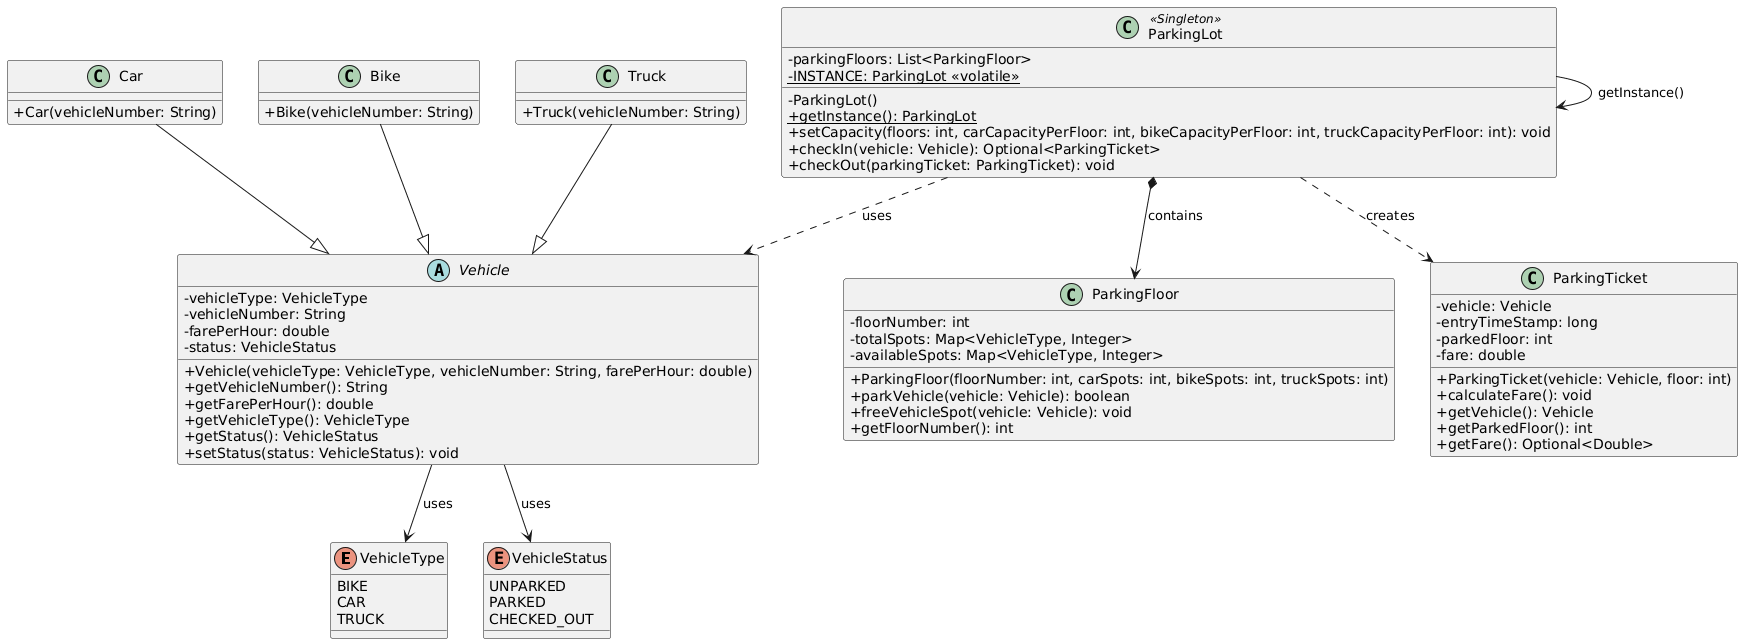
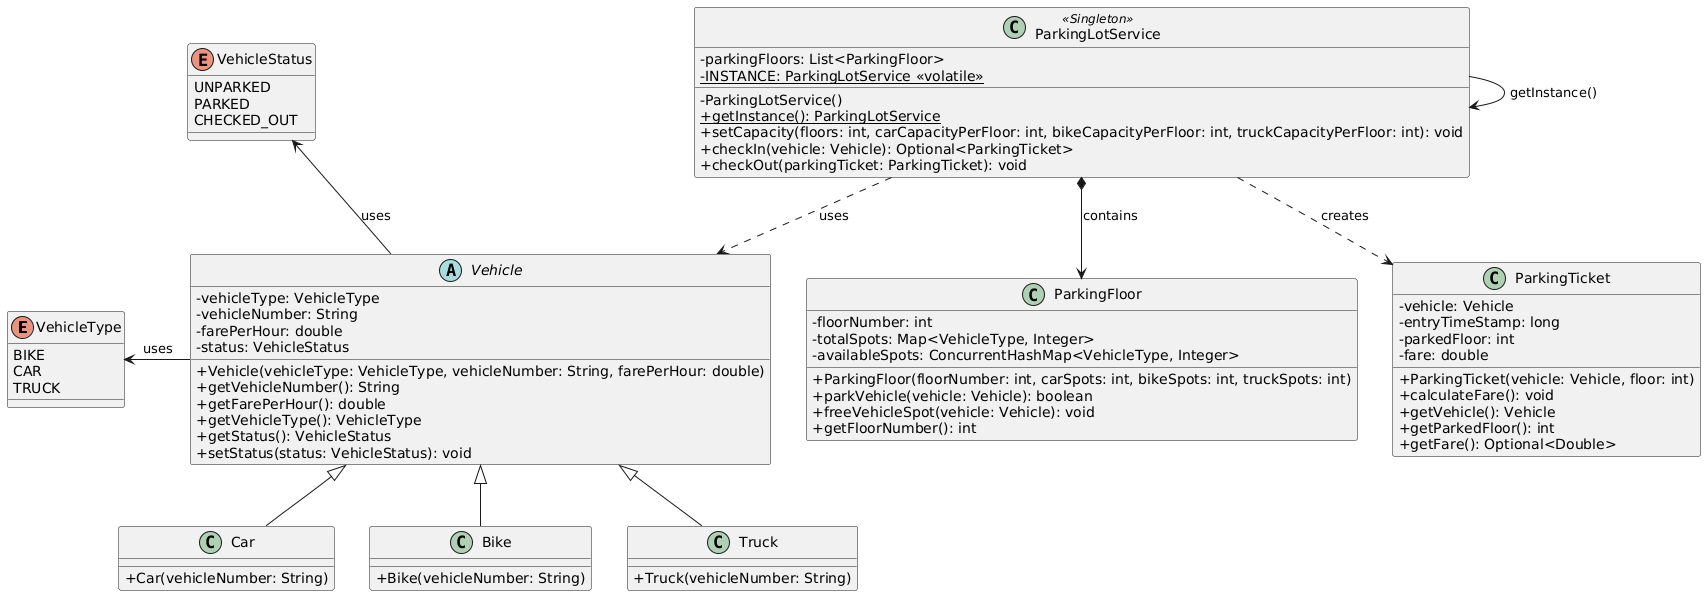
updated package structures, refactor class digrams, readme

diff --git a/problems/parking-lot/ParkingLotDemo.java b/problems/parking-lot/ParkingLotDemo.java
@@ -1,5 +1,5 @@
-import parking.ParkingLot;
-import ticket.ParkingTicket;
+import service.ParkingLotService;
+import entities.ParkingTicket;
 import vehicle.Car;
 import vehicle.Vehicle;
 
@@ -7,33 +7,32 @@ import java.util.Optional;
 
 public class ParkingLotDemo {
 
-    public static void main() throws InterruptedException {
-        ParkingLot parkingLot = ParkingLot.getInstance();
-        parkingLot.setCapacity(1, 2, 5, 1);
+    public static void main(String[] args) throws InterruptedException {
+        ParkingLotService parkingLotService = ParkingLotService.getInstance();
+        parkingLotService.setCapacity(1, 2, 5, 1);
 
         Vehicle car1 = new Car("TN 88 AB 1234");
-        Optional<ParkingTicket> car1Ticket = parkingLot.checkIn(car1);
+        Optional<ParkingTicket> car1Ticket = parkingLotService.checkIn(car1);
         car1Ticket.ifPresent(ticket -> System.out.println("Vehicle " + ticket.getVehicle().getVehicleNumber() + " parked in floor " + ticket.getParkedFloor()));
 
         Vehicle car2 = new Car("TN 19 AB 7887");
-        Optional<ParkingTicket> car2Ticket = parkingLot.checkIn(car2);
+        Optional<ParkingTicket> car2Ticket = parkingLotService.checkIn(car2);
         car2Ticket.ifPresent(ticket -> System.out.println("Vehicle " + ticket.getVehicle().getVehicleNumber() + " parked in floor " + ticket.getParkedFloor()));
 
-
         Vehicle car3 = new Car("TN 01 A 8055");
-        Optional<ParkingTicket> car3Ticket = parkingLot.checkIn(car3);
+        Optional<ParkingTicket> car3Ticket = parkingLotService.checkIn(car3);
         car3Ticket.ifPresent(ticket -> System.out.println("Vehicle " + ticket.getVehicle().getVehicleNumber() + " parked in floor " + ticket.getParkedFloor()));
 
         //for testing
         Thread.sleep(5000);
 
         if(car1Ticket.isPresent()) {
-            parkingLot.checkOut(car1Ticket.get());
+            parkingLotService.checkOut(car1Ticket.get());
             Optional<Double> fare = car1Ticket.get().getFare();
             fare.ifPresent(amount -> System.out.println("Fare for vehicle " + car1Ticket.get().getVehicle().getVehicleNumber() + " : " + amount));
         }
 
-        car3Ticket = parkingLot.checkIn(car3);
+        car3Ticket = parkingLotService.checkIn(car3);
         car3Ticket.ifPresent(ticket -> System.out.println("Vehicle " + ticket.getVehicle().getVehicleNumber() + " parked in floor " + ticket.getParkedFloor()));
 
     }

diff --git a/problems/lrucache/LRUCacheDemo.java b/problems/lrucache/LRUCacheDemo.java
@@ -1,20 +1,20 @@
-import cache.LRUCache;
+import service.LRUCacheService;
 
 public class LRUCacheDemo {
 
-    static void main() {
+    public static void main(String[] args) {
 
-        LRUCache<Integer, String> lruCache = new LRUCache<>(3);
+        LRUCacheService<Integer, String> lruCacheService = new LRUCacheService<>(3);
 
-        lruCache.put(1, "Alice");
-        lruCache.put(2, "Bob");
-        lruCache.put(3, "David");
+        lruCacheService.put(1, "Alice");
+        lruCacheService.put(2, "Bob");
+        lruCacheService.put(3, "David");
 
-        System.out.println(lruCache.get(1));
+        System.out.println(lruCacheService.get(1));
 
-        lruCache.put(4, "John");
+        lruCacheService.put(4, "John");
 
-        System.out.println(lruCache.get(2));
+        System.out.println(lruCacheService.get(2));
     }
 
 }

diff --git a/problems/pub-sub/PubSubDemo.java b/problems/pub-sub/PubSubDemo.java
@@ -1,11 +1,11 @@
 import service.PubSubService;
-import sub.SportsSubscriber;
-import sub.Subscriber;
-import sub.WeatherSubscriber;
+import subscriber.SportsSubscriber;
+import subscriber.Subscriber;
+import subscriber.WeatherSubscriber;
 
 public class PubSubDemo {
 
-    public static void main() throws InterruptedException {
+    public static void main(String[] args) throws InterruptedException {
 
         PubSubService service = PubSubService.getInstance();
 

diff --git a/problems/pub-sub/service/PubSubService.java b/problems/pub-sub/service/PubSubService.java
@@ -1,8 +1,8 @@
 package service;
 
-import message.Message;
-import sub.Subscriber;
-import topic.Topic;
+import entities.Message;
+import subscriber.Subscriber;
+import entities.Topic;
 import java.util.Map;
 import java.util.concurrent.*;
 

diff --git a/problems/parking-lot/README.md b/problems/parking-lot/README.md
@@ -25,17 +25,17 @@ This is a classic low-level design problem that tests the ability to model a rea
 ## UML Diagram
 
 ```
-                        ┌──────────────────────────────────┐
-                        │        ParkingLot <<Singleton>>  │
-                        ├──────────────────────────────────┤
-                        │ - parkingFloors: List<ParkingFloor>│
-                        │ - INSTANCE: ParkingLot           │
-                        ├──────────────────────────────────┤
-                        │ + getInstance(): ParkingLot      │
-                        │ + setCapacity(...): void         │
+                        ┌──────────────────────────────────────┐
+                        │     ParkingLotService <<Singleton>>  │
+                        ├──────────────────────────────────────┤
+                        │ - parkingFloors: List<ParkingFloor>  │
+                        │ - INSTANCE: ParkingLotService        │
+                        ├──────────────────────────────────────┤
+                        │ + getInstance(): ParkingLotService   │
+                        │ + setCapacity(...): void             │
                         │ + checkIn(vehicle): Optional<ParkingTicket> │
-                        │ + checkOut(ticket): void         │
-                        └────────────┬─────────────────────┘
+                        │ + checkOut(ticket): void             │
+                        └────────────┬─────────────────────────┘
                                      │ contains 1..*
                                      ▼
                         ┌──────────────────────────────┐
@@ -87,7 +87,7 @@ This is a classic low-level design problem that tests the ability to model a rea
 | `VehicleStatus` | Enum tracking vehicle lifecycle: `UNPARKED → PARKED → CHECKED_OUT`. |
 | `ParkingFloor` | Manages available and total slot counts per vehicle type using a `Map<VehicleType, Integer>`. Handles park and free operations. |
 | `ParkingTicket` | Receipt issued on check-in. Records entry time and floor. Calculates fare on checkout. Exposes fare only after checkout via `Optional<Double>`. |
-| `ParkingLot` | Singleton entry point. Iterates floors to find the first available slot, owns the vehicle status lifecycle, and synchronizes concurrent access. |
+| `ParkingLotService` | Singleton entry point. Iterates floors to find the first available slot, owns the vehicle status lifecycle, and synchronizes concurrent access. |
 
 ---
 
@@ -102,7 +102,7 @@ Using `Map<VehicleType, Integer>` keyed by the enum reduces both `parkVehicle` a
 Earlier versions called `vehicle.getType()` and compared strings like `"Car"` with `equalsIgnoreCase`. This caused a real bug — `Truck.TYPE` was accidentally set to `"Bike"`, silently routing trucks to bike slots. An enum makes this class of bug impossible at compile time.
 
 ### 3. Singleton with Separated Configuration
-`ParkingLot` is a Singleton because only one physical lot exists. Passing configuration parameters directly into `getInstance(...)` is an anti-pattern — after the first call, subsequent calls with different parameters are silently ignored.
+`ParkingLotService` is a Singleton because only one physical lot exists. Passing configuration parameters directly into `getInstance(...)` is an anti-pattern — after the first call, subsequent calls with different parameters are silently ignored.
 
 `getInstance()` handles identity only. `setCapacity(...)` handles one-time configuration and throws `IllegalStateException` if called more than once (`!parkingFloors.isEmpty()`), preventing silent state corruption from accidental double-initialization.
 
@@ -112,11 +112,11 @@ Returning `null` when the lot is full gives the caller no way to distinguish an 
 ### 5. `Optional<Double>` on `getFare`
 `getFare()` returns `Optional.empty()` if the vehicle has not been checked out yet (status is not `CHECKED_OUT`). This prevents callers from silently reading a `0.0` fare before checkout has occurred.
 
-### 6. Vehicle Status Owned by `ParkingLot`
-`ParkingTicket` is a receipt — it records a transaction, not manages a vehicle's lifecycle. `ParkingTicket` constructor does not call `setStatus`. Both transitions are in `ParkingLot` exclusively: `checkIn` sets `PARKED` after a floor confirms a slot, `checkOut` sets `CHECKED_OUT` after fare is calculated. This makes `ParkingLot` the single source of truth for vehicle lifecycle and enables double-park prevention with one guard in `checkIn`.
+### 6. Vehicle Status Owned by `ParkingLotService`
+`ParkingTicket` is a receipt — it records a transaction, not manages a vehicle's lifecycle. `ParkingTicket` constructor does not call `setStatus`. Both transitions are in `ParkingLotService` exclusively: `checkIn` sets `PARKED` after a floor confirms a slot, `checkOut` sets `CHECKED_OUT` after fare is calculated. This makes `ParkingLotService` the single source of truth for vehicle lifecycle and enables double-park prevention with one guard in `checkIn`.
 
-### 7. Thread Safety via `synchronized` on `ParkingLot`
-`checkIn` and `checkOut` are `synchronized` on the `ParkingLot` instance. Since `ParkingLot` is a Singleton, this provides a single lock for all slot mutations. `availableSpots` in `ParkingFloor` uses `ConcurrentHashMap` for map-level safety, but the compound check-then-act in `parkVehicle` (`get > 0` then `put`) requires the outer `ParkingLot` lock to be fully race-free. The correct floor-level fix is `ConcurrentHashMap.computeIfPresent` for atomic decrement.
+### 7. Thread Safety — Two-Layer Locking
+`checkIn` and `checkOut` are `synchronized` on the `ParkingLotService` instance providing a single outer lock for all slot mutations. Inside `ParkingFloor`, `parkVehicle` uses `ConcurrentHashMap.compute` and `freeVehicleSpot` uses `ConcurrentHashMap.computeIfPresent` — making each slot decrement and increment atomically at the map level. The two layers together eliminate the check-then-act race: the outer lock serializes cross-floor decisions, the inner compute ensures no torn writes on the slot counters themselves.
 
 ### 8. Fare Calculation with Ceiling Hours
 `Math.ceil(parkedHours)` is used so that any partial hour is billed as a full hour — standard real-world parking billing. Entry and exit timestamps use `Instant.now().getEpochSecond()` (wall-clock seconds) rather than `System.nanoTime()` (monotonic, not wall-clock), which is correct for billing duration.

diff --git a/problems/lrucache/README.md b/problems/lrucache/README.md
@@ -25,18 +25,18 @@ This is a classic low-level design problem that tests the ability to combine two
 ## UML Diagram
 
 ```
-┌─────────────────────────────────────┐
-│           LRUCache<K, V>            │
-├─────────────────────────────────────┤
-│ - CAPACITY: int                     │
-│ - CACHE: Map<K, Node<K,V>>          │
-│ - DOUBLY_LINKED_LIST: DoublyLinked  │
-│         List<K,V>                   │
-├─────────────────────────────────────┤
-│ + get(key: K): V                    │
-│ + put(key: K, value: V): void       │
-│ + remove(key: K): void              │
-└────────────┬──────────┬─────────────┘
+┌──────────────────────────────────────────┐
+│         LRUCacheService<K, V>            │
+├──────────────────────────────────────────┤
+│ - CAPACITY: int                          │
+│ - CACHE: Map<K, Node<K,V>>              │
+│ - DOUBLY_LINKED_LIST: DoublyLinkedList   │
+│         <K,V>                            │
+├──────────────────────────────────────────┤
+│ + get(key: K): V                         │
+│ + put(key: K, value: V): void            │
+│ + remove(key: K): void                   │
+└────────────┬──────────┬──────────────────┘
              │          │
          composes   maps via CACHE
              │          │
@@ -61,7 +61,7 @@ This is a classic low-level design problem that tests the ability to combine two
 |---|---|
 | `Node<K, V>` | Holds a key-value pair with pointers to the previous and next nodes in the doubly linked list. |
 | `DoublyLinkedList<K, V>` | Maintains insertion order with O(1) add, remove, and reorder. The head side is most-recent; the tail side is least-recent. Sentinel head and tail nodes eliminate null checks. |
-| `LRUCache<K, V>` | Combines the map and list to serve as the public API. The map provides O(1) lookup; the list provides O(1) eviction ordering. |
+| `LRUCacheService<K, V>` | Combines the map and list to serve as the public API. The map provides O(1) lookup; the list provides O(1) eviction ordering. |
 
 ---
 
@@ -84,10 +84,10 @@ Combining them solves both: the map stores `key → Node` for instant lookup, an
 All three classes are generic. This makes the cache reusable for any key and value types without sacrificing type safety, following the **Open/Closed Principle** — the cache is open for use with new types but closed for modification.
 
 ### 5. Thread Safety via `synchronized`
-`get`, `put`, and `remove` in `LRUCache` are all declared `synchronized`. This ensures mutual exclusion on the shared `CACHE` map and `DOUBLY_LINKED_LIST` without introducing external locking concerns on the caller. It is a deliberate simplicity trade-off — sufficient for moderate concurrency, with `ReadWriteLock` or `ConcurrentHashMap`-based approaches as natural next steps for high-throughput scenarios.
+`get`, `put`, and `remove` in `LRUCacheService` are all declared `synchronized`. This ensures mutual exclusion on the shared `CACHE` map and `DOUBLY_LINKED_LIST` without introducing external locking concerns on the caller. It is a deliberate simplicity trade-off — sufficient for moderate concurrency, with `ReadWriteLock` or `ConcurrentHashMap`-based approaches as natural next steps for high-throughput scenarios.
 
 ### 6. Encapsulation of List Operations
-All structural mutations of the doubly linked list are encapsulated in `DoublyLinkedList`. `LRUCache` only calls `addFirst`, `moveToFirst`, `remove`, and `removeLast` — it never manipulates node pointers directly. This separation of concerns keeps `LRUCache` focused on cache policy and `DoublyLinkedList` focused on list mechanics.
+All structural mutations of the doubly linked list are encapsulated in `DoublyLinkedList`. `LRUCacheService` only calls `addFirst`, `moveToFirst`, `remove`, and `removeLast` — it never manipulates node pointers directly. This separation of concerns keeps `LRUCacheService` focused on cache policy and `DoublyLinkedList` focused on list mechanics.
 
 ---
 